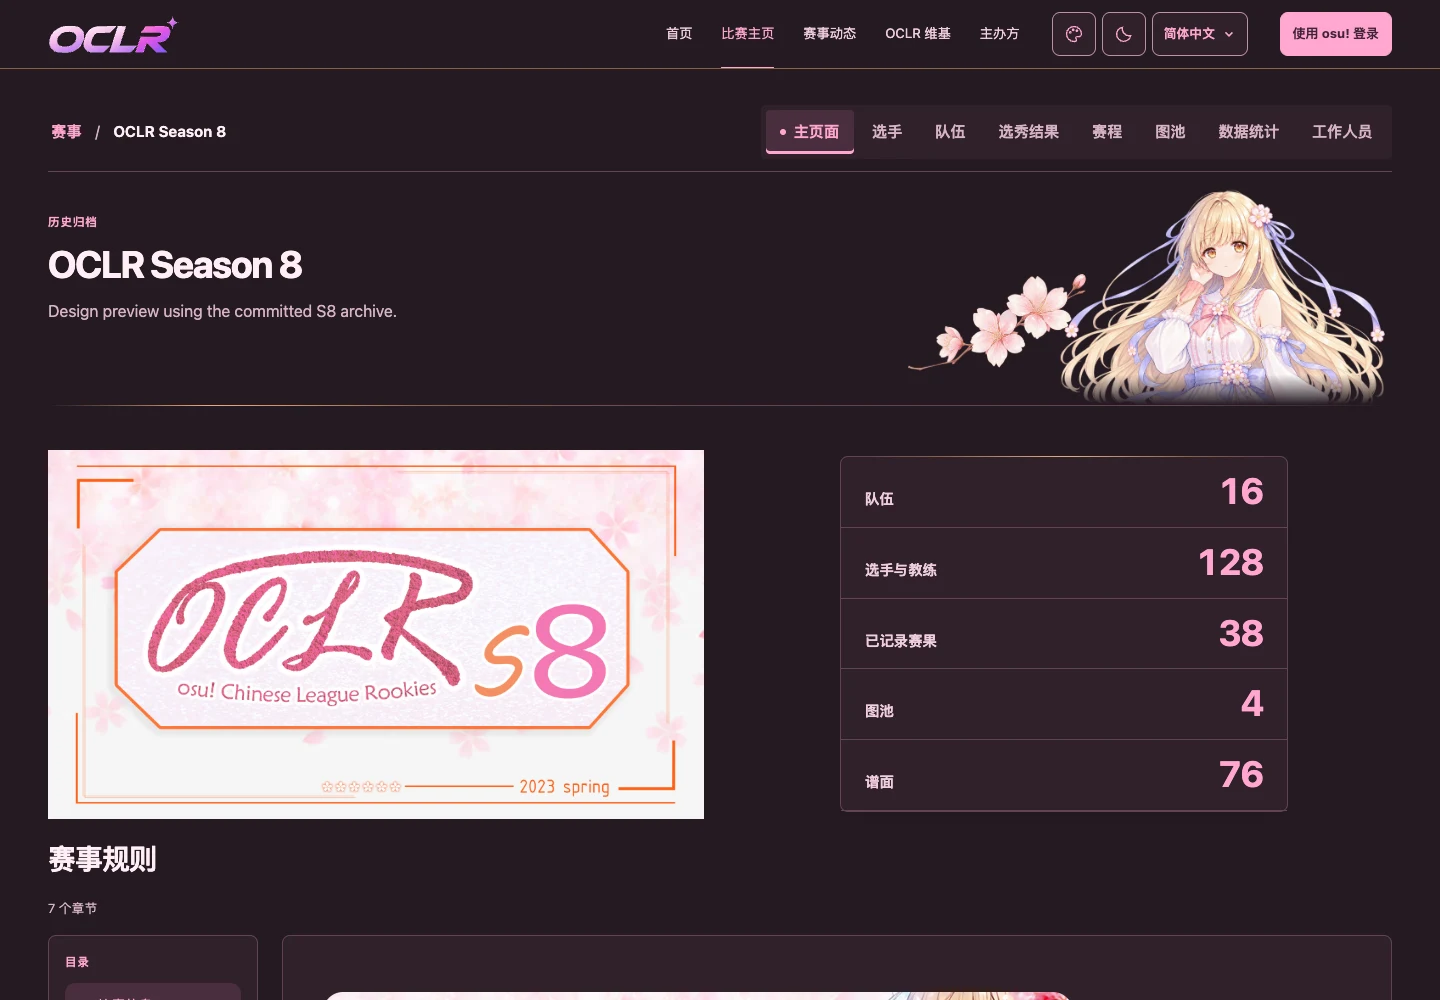
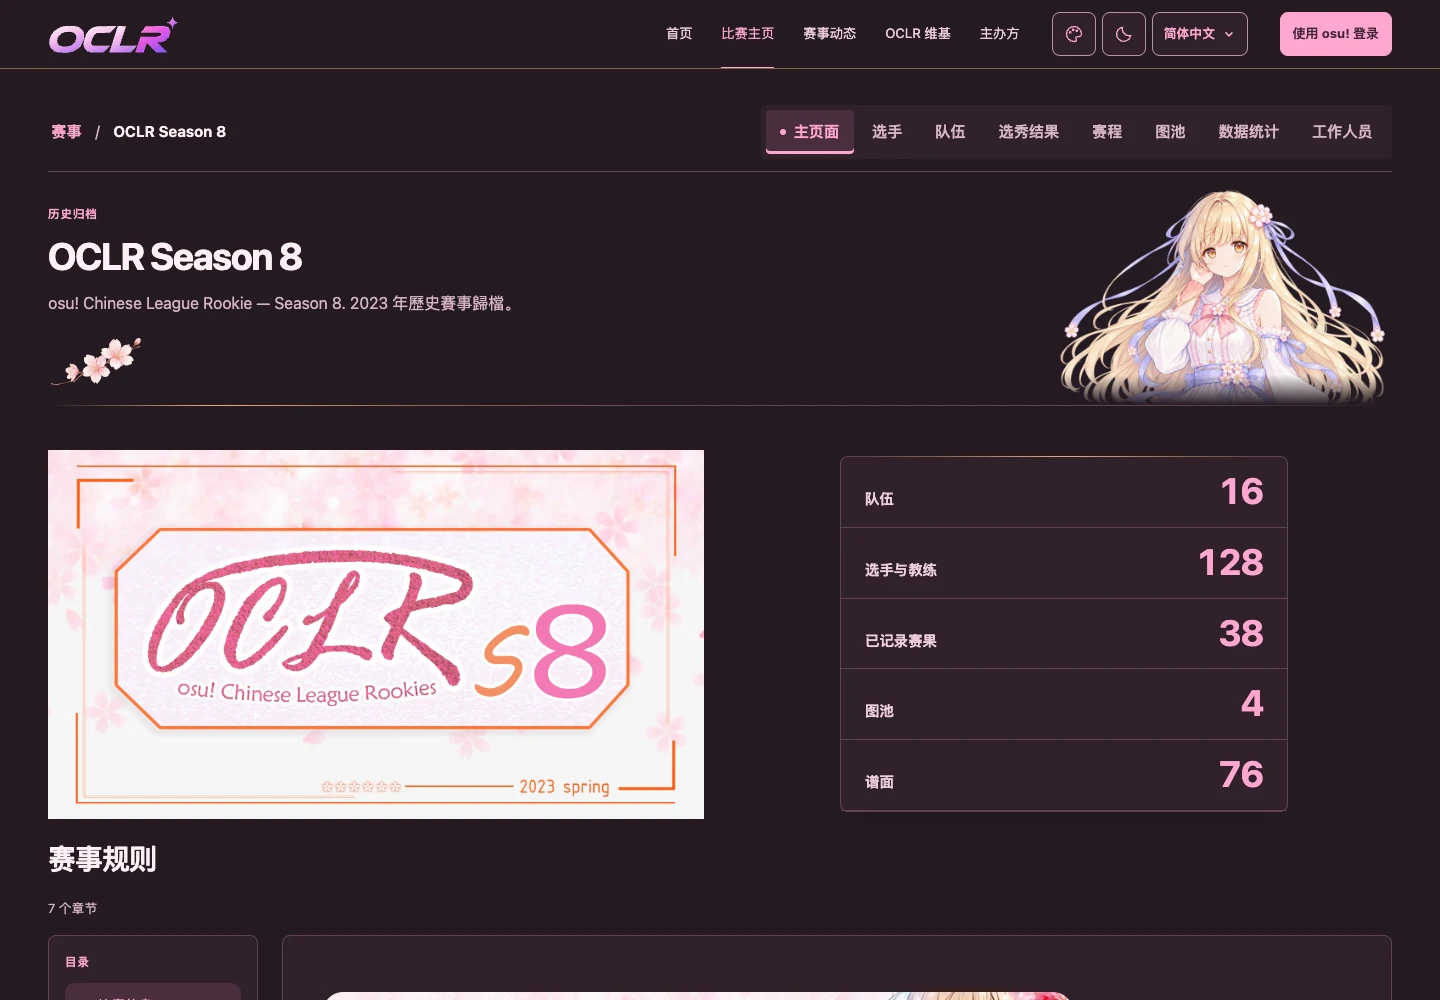
docs(theme): record S8 heading size checks and native previews

Changed region(s): [[0.0312, 0.186, 0.3438, 0.403], [0.625, 0.279, 0.75, 0.372]]

diff --git a/docs/design/season-themes/s8.html b/docs/design/season-themes/s8.html
@@ -77,7 +77,7 @@
     <header>
       <h1>S8 · 最新應用 UI 設計對照</h1>
       <p>
-        圖片來自 S8 女主角精修 <code>08851a1</code> 的實際頁面，UI 基於
+        圖片來自 S8 標題比例修復 <code>ce92b4d</code> 的實際頁面，UI 基於
         main <code>d34378e</code>。使用 SSR 外觀偏好、打包樣式與正式素材；
         花枝已精修，移除強制折角，以少量 1px 橙色印刷線呼應原主視覺，頁首導覽採透明底色與單條細底線。
       </p>
@@ -90,6 +90,11 @@
       </p>
     </header>
     <p style="margin: 16px 24px">原始 RULES banner 由主辦方提供；半身角色為參考該圖補全的候選插畫。<a href="s8/ARTWORK.md">素材與完整生成記錄</a></p>
+    <p style="margin: 16px 24px">
+      標題比例修復：<a href="s8/heading-937-light.png">937px Light</a> ·
+      <a href="s8/heading-937-dark.png">Dark</a> ·
+      <a href="s8/heading-390-light.png">手機</a>（實際頁面原生 2× 截圖）
+    </p>
     <p style="margin: 16px 24px">
       女主角精修局部：<a href="s8/heroine-937-light.png">937px Light</a> ·
       <a href="s8/heroine-937-dark.png">Dark</a> ·

diff --git a/docs/design/season-themes/s8/DESIGN.md b/docs/design/season-themes/s8/DESIGN.md
@@ -2,7 +2,7 @@
 
 **2026-10-27 正式接入**：初稿已由主辦方確認，本輪註冊 `sakura-circuit`，選單顯示「S8 · 櫻花折線／樱花折线／Sakura Circuit」。本輪依回饋精修花枝：移除標題橙色折角與統計角標，改為細緻櫻花插畫與漸淡分隔線；名稱沿用原 issue，視覺不強求折線元素。正式 CSS 與素材位於 `src/app/sakura-theme.css`／`public/themes/sakura-circuit/`；migration `0047_sakura_circuit_appearance` 僅擴充設定／稽核約束。下文保留初稿產圖時的歷史流程與證據，正式接入驗證另記於 #197。
 
-**目前狀態（2026-10-27）**：PR #378 已合併；本輪女主角修復基於 main `d34378e`，runtime `08851a183a94252bb831988f49d311b2849f5ba3`。下方初稿流程與舊驗證保留為歷史，最新人物與驗證見文末；修復尚未合併或部署。
+**目前狀態（2026-10-27）**：PR #378 已合併；本輪人物及標題比例修復基於 main `d34378e`，最新runtime `ce92b4db2bd5e3397117ee009e9dc872ad36563b`。下方初稿流程與舊驗證保留為歷史，最新人物與驗證見文末；修復尚未合併或部署。
 
 追蹤：[#197](https://github.com/OCLR-dev/OCLR-website/issues/197)。2026-10-27 依主辦方要求啟動，先交付最新實際 UI 的初稿；本輪另依回饋納入使用者提供的 RULES banner，並選用補全女主角的半身像。尚未註冊正式 appearance。
 
@@ -132,7 +132,7 @@ WebKit 桌面／手機兩項 S8 整合重驗通過；新增導航請求完成等
 
 正式引用 [heroine-half-refined.webp](heroine-half-refined.webp)，[生成 PNG](heroine-half-refined.png) 與完整內建 image_gen 提示詞保留於 [ARTWORK](ARTWORK.md)。1536×1024 的 PNG 轉為 quality 92 WebP，alpha 逐像素相同，約423KiB，較舊素材451KiB小。使用新檔名避免舊快取，舊素材保留作歷史。只更換人物素材引用，沿用既有340px／手機背景圖、底端淡出、高對比退場與 reduced motion，沒有新增產品文字、依賴、資料、權限或 migration。
 
-[937px Light](heroine-937-light.png)／[Dark](heroine-937-dark.png) · [390px Light](heroine-390-light.png)／[Dark](heroine-390-dark.png)。直接取自實際頁面、繁中與原生2×像素，沒有候選CSS overlay、後製或拼貼；原 banner、主視覺、花枝及版面保持原有設計。圖庫更新到 runtime `08851a1`。
+[937px Light](heroine-937-light.png)／[Dark](heroine-937-dark.png) · [390px Light](heroine-390-light.png)／[Dark](heroine-390-dark.png)。直接取自實際頁面、繁中與原生2×像素，沒有候選CSS overlay、後製或拼貼；原 banner、主視覺、花枝及版面保持原有設計。人物樣貌修復當時的runtime為 `08851a1`；現有圖庫以頁首最新runtime為準。
 
 重現時使用獨立 test DB，依上方流程 migrate／prepare／build／start，並執行：
 
@@ -143,3 +143,22 @@ S8_REGISTERED_PREVIEW=1 S8_UI_BASELINE=08851a183a94252bb831988f49d311b2849f5ba3 
 工具核對完整 `src`／`messages`／`public` 與 runtime SHA 一致，以正式SSR偏好和素材擷取24組UI／24次Axe AA、4組高對比與四張人物局部。最新實際結果以 [verification.json](verification.json) 與 #197 為準。此輪為插畫素材修復，不重跑未受影響的完整unit/integration、i18n或依賴稽核；既有正式接入證據不是本輪新跑結果，CI與合併／部署各自記錄。
 
 本輪 Node.js24 `npm ci`、check／production build／最終tsc、工具ESLint／語法、文件連結與diff檢查通過。Chrome桌面／手機2項及Safari桌面／手機2項通過，涵蓋三語明暗、正式選單、SSR／跨頁、原圖／原banner、焦點與高對比。24組實際UI／24次Axe AA零違規，4組forced colours通過；16張頁面圖、四張人物2×局部、兩張手機選單與12張default對照已更新。新head的CI狀態另記於#197，未將本機結果稱為完整CI／部署通過。
+
+
+## 標題大小／留白修復（2026-10-27）
+
+依主辦方937px標題區標註，修正1100px以下一律切成上下排列、預留178px底部空間而人物僅164px高的比例。沿用 `codex/fix-s8-heroine`，保留前輪新人物素材，沒有再生成或重繪人物。
+
+公開賽事內容區以 `sakura-content` inline-size container 判斷可用寬度。達680px時採左右排列，標題最小高度218px，人物寬在304至340px間收斂；文字與人物間隔24px。左下花枝縮至96×64px，並以獨立底部空間避開文字。窄內容維持上下排列；私有側欄工作區、原banner／主視覺、橙色細線及素材同人／來源紀錄延續原樣。文字可自然換行，不以固定高度裁切。
+
+937px實測標題871.41×218px、人物331.13×217px；390px為358px寬的上下排列，人物250.59×164px。明暗版幾何相同。[937px Light](heading-937-light.png)／[Dark](heading-937-dark.png) · [390px Light](heading-390-light.png)／[Dark](heading-390-dark.png)。直接擷取正式SSR頁面、繁中與原生2×像素，沒有候選CSS overlay、拼貼或後製。summary使用主辦方標註的公開原文 `osu! Chinese League Rookie — Season 8. 2023 年歷史賽事歸檔。`，僅存於隔離合成test DB，不修改正式賽事；前輪英文fixture summary屬舊預覽紀錄。
+
+最新重現命令（獨立test DB prepare／build／start後）：
+
+```sh
+S8_REGISTERED_PREVIEW=1 S8_UI_BASELINE=ce92b4db2bd5e3397117ee009e9dc872ad36563b node --import tsx docs/design/season-themes/s8/capture.mjs
+```
+
+工具核對完整 `src`／`messages`／`public` 與runtime SHA相同，使用正式SSR樣式產生24組UI／Axe AA、4組高對比、四張人物局部與四張完整標題2×圖。此輪只有CSS尺寸修復，未新增介面文字、依賴、資料或migration；沒有重跑未受影響的完整unit/integration、i18n或依賴稽核。前輪人物修整與正式接入結果不當成本輪新跑結果，CI狀態於#197分別記錄。尚未合併或部署修復。
+
+本輪check／production build／最終tsc、工具ESLint／語法、文件連結與diff檢查通過。新增Chrome桌面／手機2項與Safari桌面／手機2項全部通過，每種瀏覽器涵蓋三語×明暗×十個尺寸（320／390／699／744／745／768／937／1100／1101／1440px）共60組幾何檢查，驗證文字／人物／花枝分隔、正常換行、無水平溢出、937px緊湊高度、Axe AA與高對比退場。另24組實際UI／24次Axe AA零違規、4組forced colours通過，原圖、五列統計、規則、手機選單焦點與sticky stack保留；16張頁面、四張人物局部、四張完整標題2×圖、兩張手機選單與12張default對照已更新。新head的CI於#197如實記錄。
